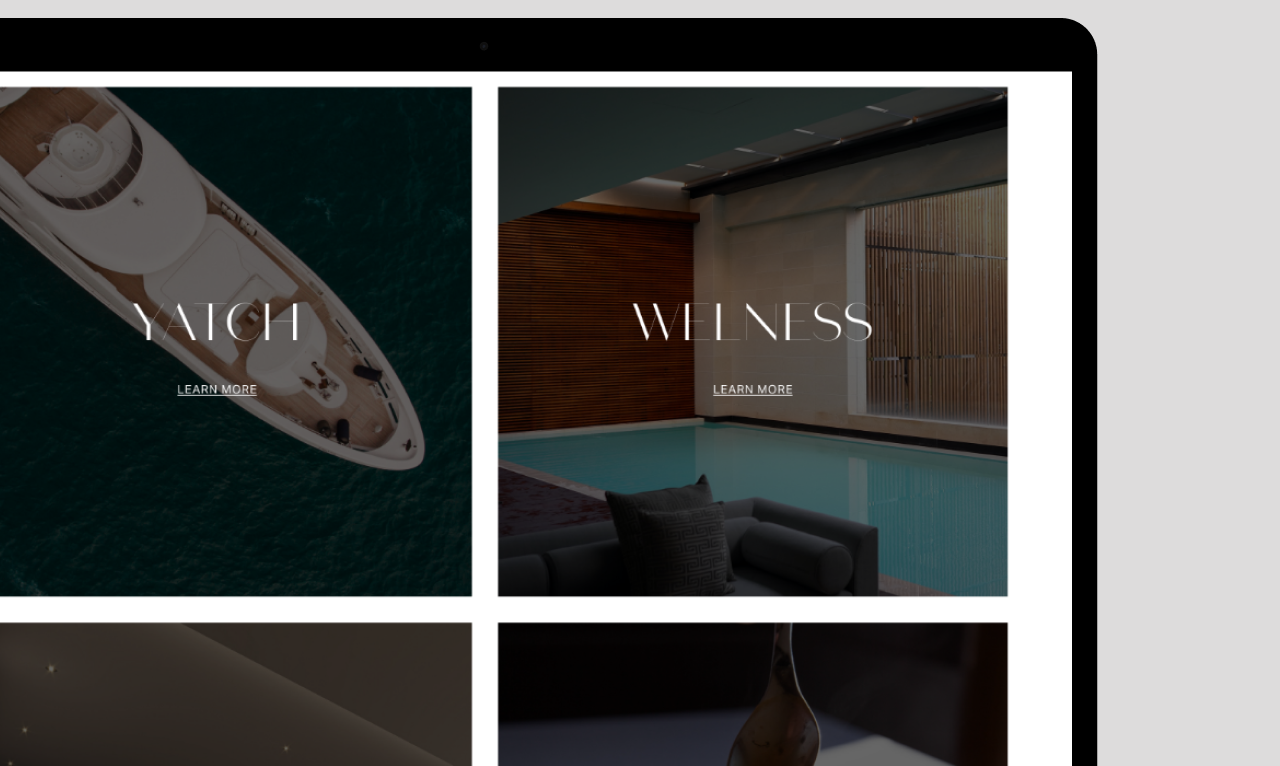
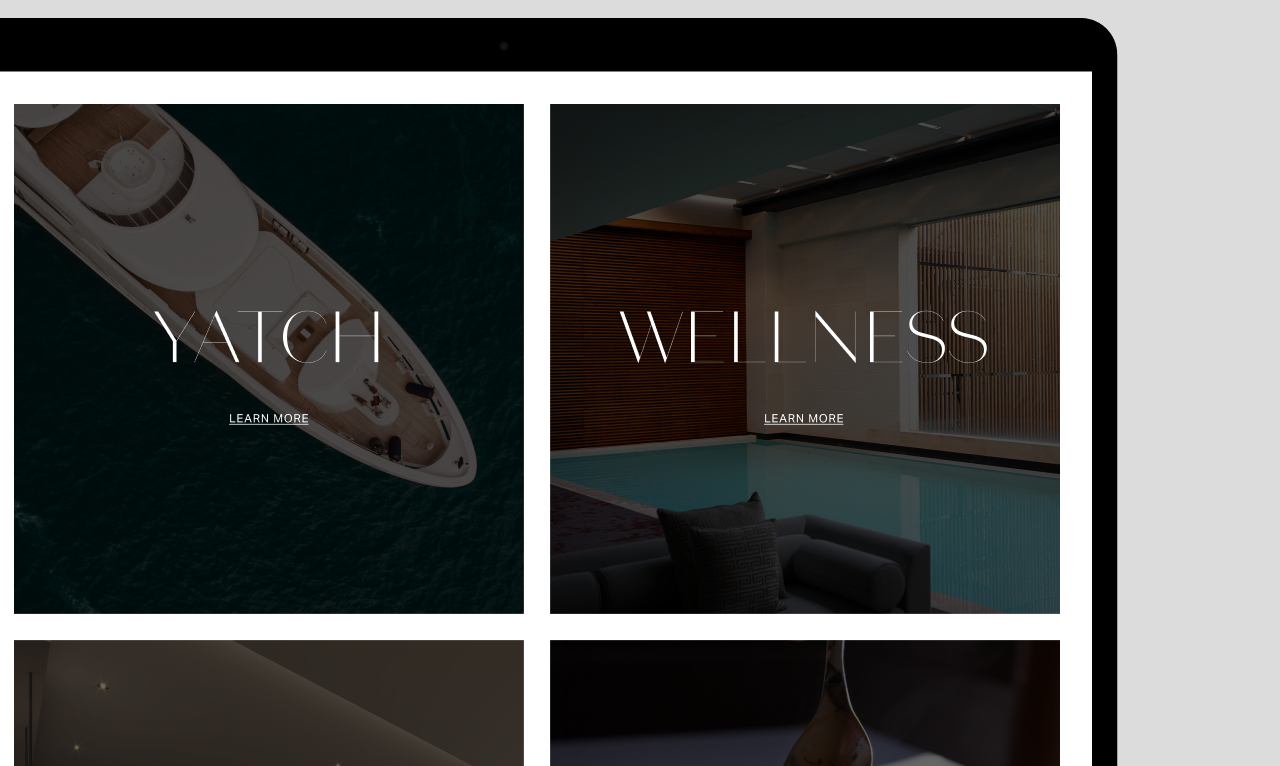
luxury

diff --git a/src/pages/portfolio/luxury-travel.tsx b/src/pages/portfolio/luxury-travel.tsx
@@ -56,12 +56,28 @@ const LeftSide: React.FC = () => {
         <div className="flex flex-col space-y-2">
           <h4 className="font-bold">Brand Evolution</h4>
           <p>
-            Lorem, ipsum dolor sit amet consectetur adipisicing elit. Minus
-            dolorem debitis, blanditiis tempora eveniet illo ratione voluptates
-            id neque iusto, earum sit? Debitis explicabo ipsa eveniet illum
-            expedita aliquid dolore veritatis, commodi porro modi odio, maiores
-            non vitae voluptates et!
+            I worked alongside the founder and the marketing director to define
+            new fonts for the brand. I proposed a two-font system. A Serif font
+            to evoke luxury; and a sans serif font for utilities (buttons,
+            forms, links, etc.).
           </p>
+          <div className="py-8">
+            <a
+              href="/_next/image?url=%2Fdata-architecture.png&w=3840&q=75"
+              target="_blank"
+              className="h-full w-full cursor-pointer"
+            >
+              <Image
+                src="/luxury-2.png"
+                alt="Brand Evolution"
+                layout="responsive"
+                width={1920}
+                height={768}
+                objectFit="cover"
+                priority
+              />
+            </a>
+          </div>
         </div>
         {/* Landing Page */}
         <div className="flex flex-col space-y-2">
@@ -74,12 +90,52 @@ const LeftSide: React.FC = () => {
               four buckets that represented most of the company’s travel
               experiences:
             </p>
-            <ul className="list-disc pl-4">
-              <li>Yatch</li>
-              <li>Welness</li>
-              <li>City</li>
-              <li> Food & Wine</li>
-            </ul>
+            <div className="w-full h-full flex flex-wrap">
+              <div className="w-1/2 border-4 border-white">
+                <Image
+                  src="/yatch.png"
+                  alt="Yatch"
+                  layout="responsive"
+                  width={374}
+                  height={374}
+                  objectFit="cover"
+                  priority
+                />
+              </div>
+              <div className="w-1/2 border-4 border-white">
+                <Image
+                  src="/wellness.png"
+                  alt="Wellness"
+                  layout="responsive"
+                  width={374}
+                  height={374}
+                  objectFit="cover"
+                  priority
+                />
+              </div>
+              <div className="w-1/2 border-4 border-white">
+                <Image
+                  src="/city.png"
+                  alt="City"
+                  layout="responsive"
+                  width={374}
+                  height={374}
+                  objectFit="cover"
+                  priority
+                />
+              </div>
+              <div className="w-1/2 border-4 border-white">
+                <Image
+                  src="/food-wine.png"
+                  alt="Food & Wine"
+                  layout="responsive"
+                  width={374}
+                  height={374}
+                  objectFit="cover"
+                  priority
+                />
+              </div>
+            </div>
           </div>
         </div>
         {/* Marketing */}
